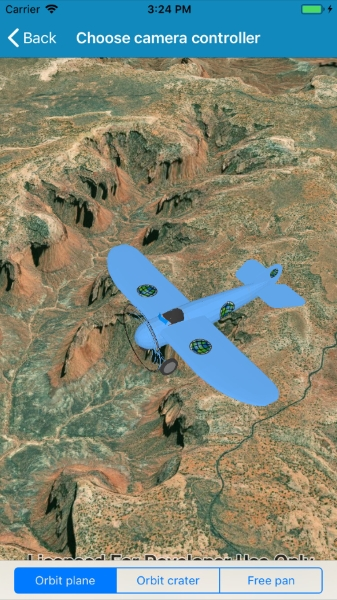
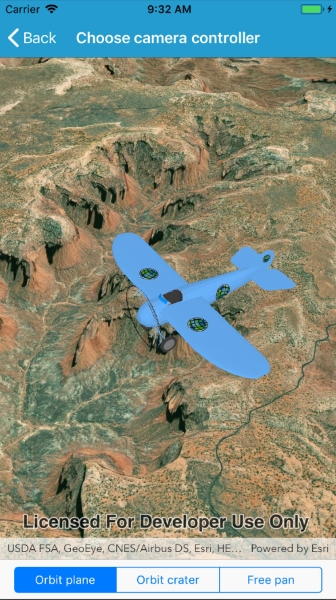
Fixed UI so toolbar does not overlap the sceneview

diff --git a/src/iOS/Xamarin.iOS/Samples/MapView/ChooseCameraController/ChooseCameraController.cs b/src/iOS/Xamarin.iOS/Samples/MapView/ChooseCameraController/ChooseCameraController.cs
@@ -32,7 +32,7 @@ namespace ArcGISRuntimeXamarin.Samples.ChooseCameraController
         private SceneView _mySceneView;
 
         // Segmented control for selecting camera controller.
-        private UISegmentedControl _operationPicker;
+        private UISegmentedControl _cameraPicker;
 
         // Path for elevation data.
         private readonly Uri _elevationUri = new Uri("http://elevation3d.arcgis.com/arcgis/rest/services/WorldElevation3D/Terrain3D/ImageServer");
@@ -138,24 +138,25 @@ namespace ArcGISRuntimeXamarin.Samples.ChooseCameraController
 
         public override void LoadView()
         {
-            // Create the views.
+            // Create the view.
             View = new UIView();
+            View.BackgroundColor = UIColor.White;
 
             // Create the scene.
             _mySceneView = new SceneView();
             _mySceneView.TranslatesAutoresizingMaskIntoConstraints = false;
 
             // Add a segmented control for selecting the camera controller.
-            _operationPicker = new UISegmentedControl("Orbit plane", "Orbit crater", "Free pan");
-            _operationPicker.TranslatesAutoresizingMaskIntoConstraints = false;
-            _operationPicker.SelectedSegment = 0;
+            _cameraPicker = new UISegmentedControl("Orbit plane", "Orbit crater", "Free pan");
+            _cameraPicker.TranslatesAutoresizingMaskIntoConstraints = false;
+            _cameraPicker.SelectedSegment = 0;
 
             // Toolbar for the segmented control.
             UIToolbar toolbar = new UIToolbar();
             toolbar.TranslatesAutoresizingMaskIntoConstraints = false;
             toolbar.Items = new[]
             {
-                new UIBarButtonItem {CustomView = _operationPicker}
+                new UIBarButtonItem {CustomView = _cameraPicker}
             };
 
             // Add the views.
@@ -164,7 +165,7 @@ namespace ArcGISRuntimeXamarin.Samples.ChooseCameraController
             // Lay out the views.
             NSLayoutConstraint.ActivateConstraints(new[]{
                 _mySceneView.TopAnchor.ConstraintEqualTo(View.SafeAreaLayoutGuide.TopAnchor),
-                _mySceneView.BottomAnchor.ConstraintEqualTo(View.BottomAnchor),
+                _mySceneView.BottomAnchor.ConstraintEqualTo(toolbar.TopAnchor),
                 _mySceneView.LeadingAnchor.ConstraintEqualTo(View.LeadingAnchor),
                 _mySceneView.TrailingAnchor.ConstraintEqualTo(View.TrailingAnchor),
 
@@ -185,7 +186,7 @@ namespace ArcGISRuntimeXamarin.Samples.ChooseCameraController
             base.ViewWillAppear(animated);
 
             // Subscribe to events.
-            _operationPicker.ValueChanged += Segment_Selected;
+            _cameraPicker.ValueChanged += Segment_Selected;
         }
 
         public override void ViewDidDisappear(bool animated)
@@ -193,7 +194,7 @@ namespace ArcGISRuntimeXamarin.Samples.ChooseCameraController
             base.ViewDidDisappear(animated);
 
             // Unsubscribe from events, per best practice.
-            _operationPicker.ValueChanged -= Segment_Selected;
+            _cameraPicker.ValueChanged -= Segment_Selected;
         }
 
         private void Segment_Selected(object sender, EventArgs e)
